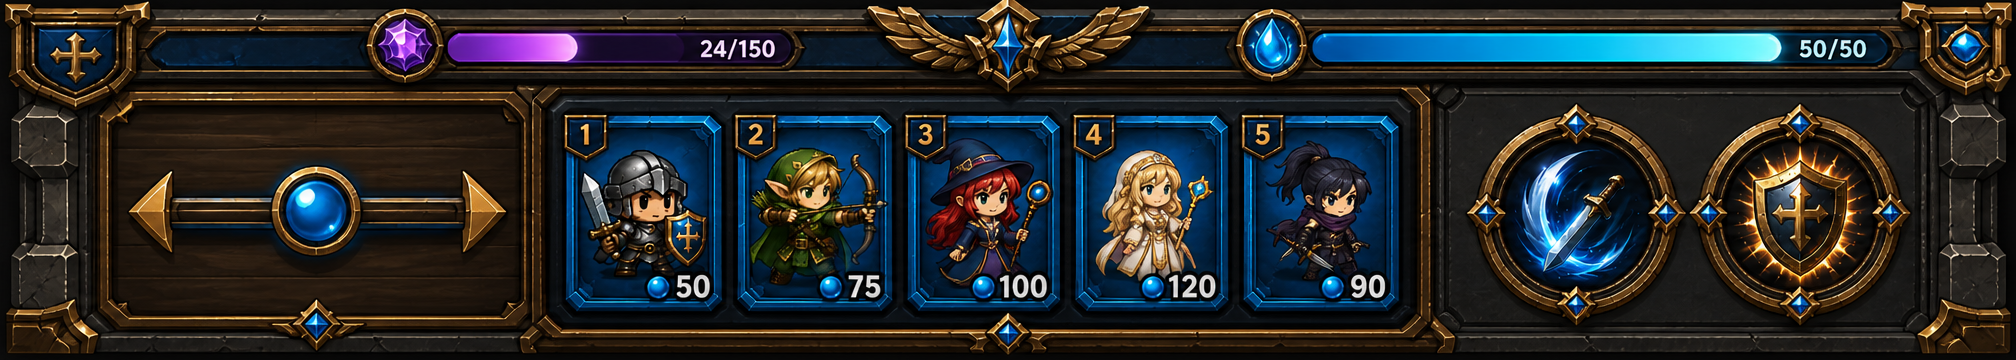
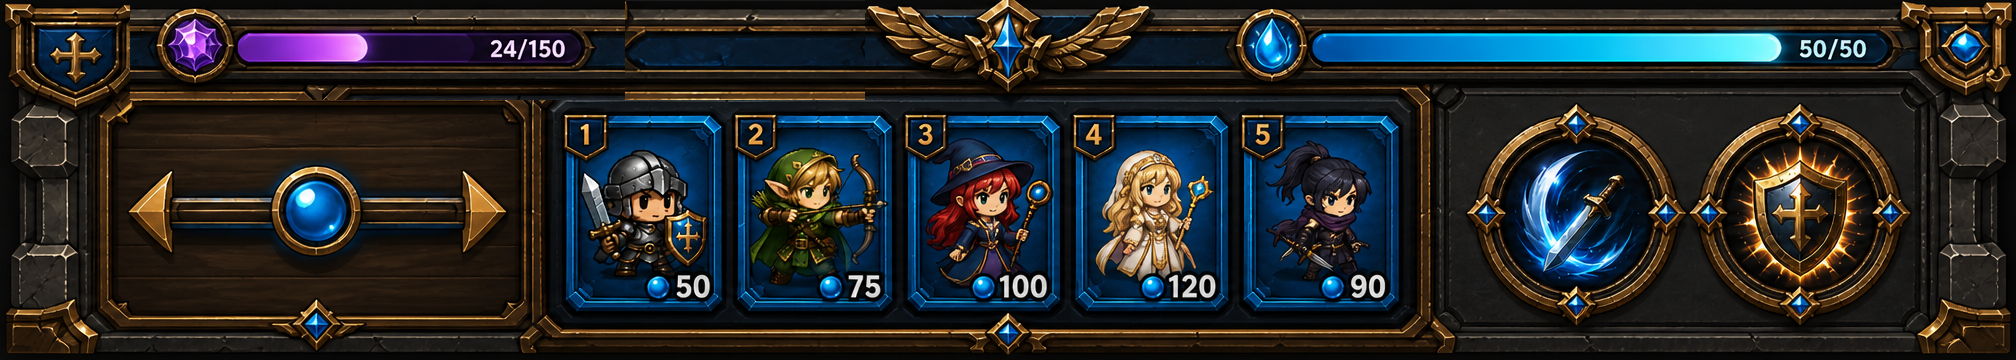
수정4

Changed region(s): [[0.0625, 0.0, 0.4375, 0.275]]

diff --git a/style.css b/style.css
@@ -340,7 +340,7 @@ body.game-started:not(.in-lobby):not(.in-stage-select):not(.in-shop):not(.in-rec
 .battle-runestone-gauge {
   position: absolute;
   z-index: 2;
-  left: 218px;
+  left: 118px;
   top: 13px;
   width: 174px;
   height: 13px;
@@ -992,7 +992,7 @@ body.game-started:not(.in-lobby):not(.in-stage-select):not(.in-shop):not(.in-rec
   }
 
   .battle-runestone-gauge {
-    left: 218px;
+    left: 118px;
     top: 13px;
     width: 174px;
     height: 13px;
